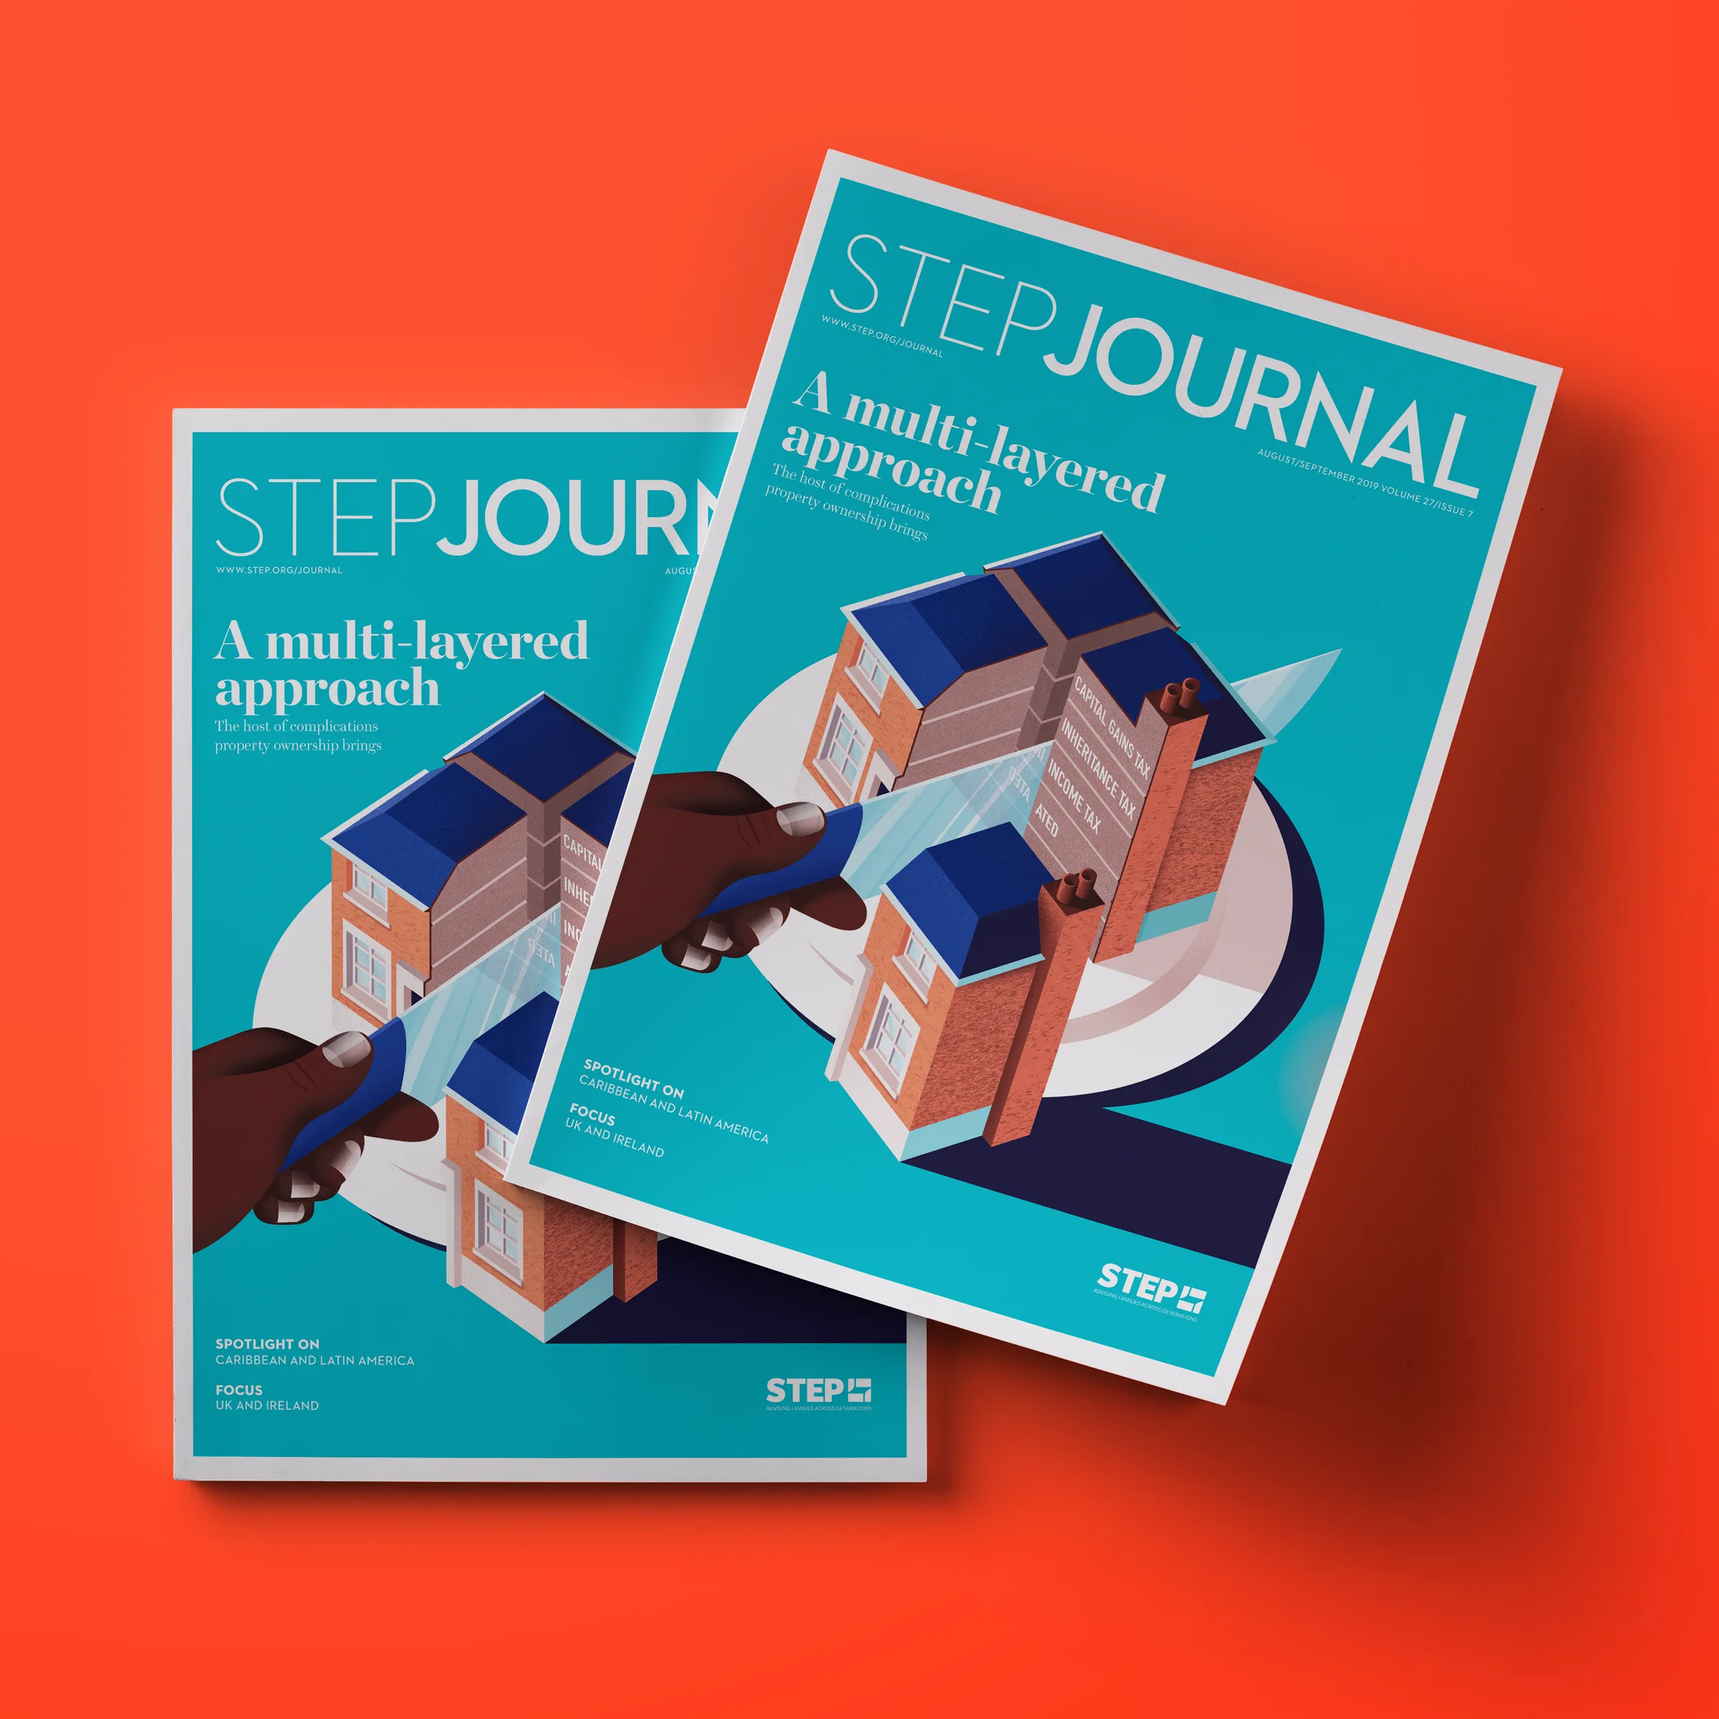
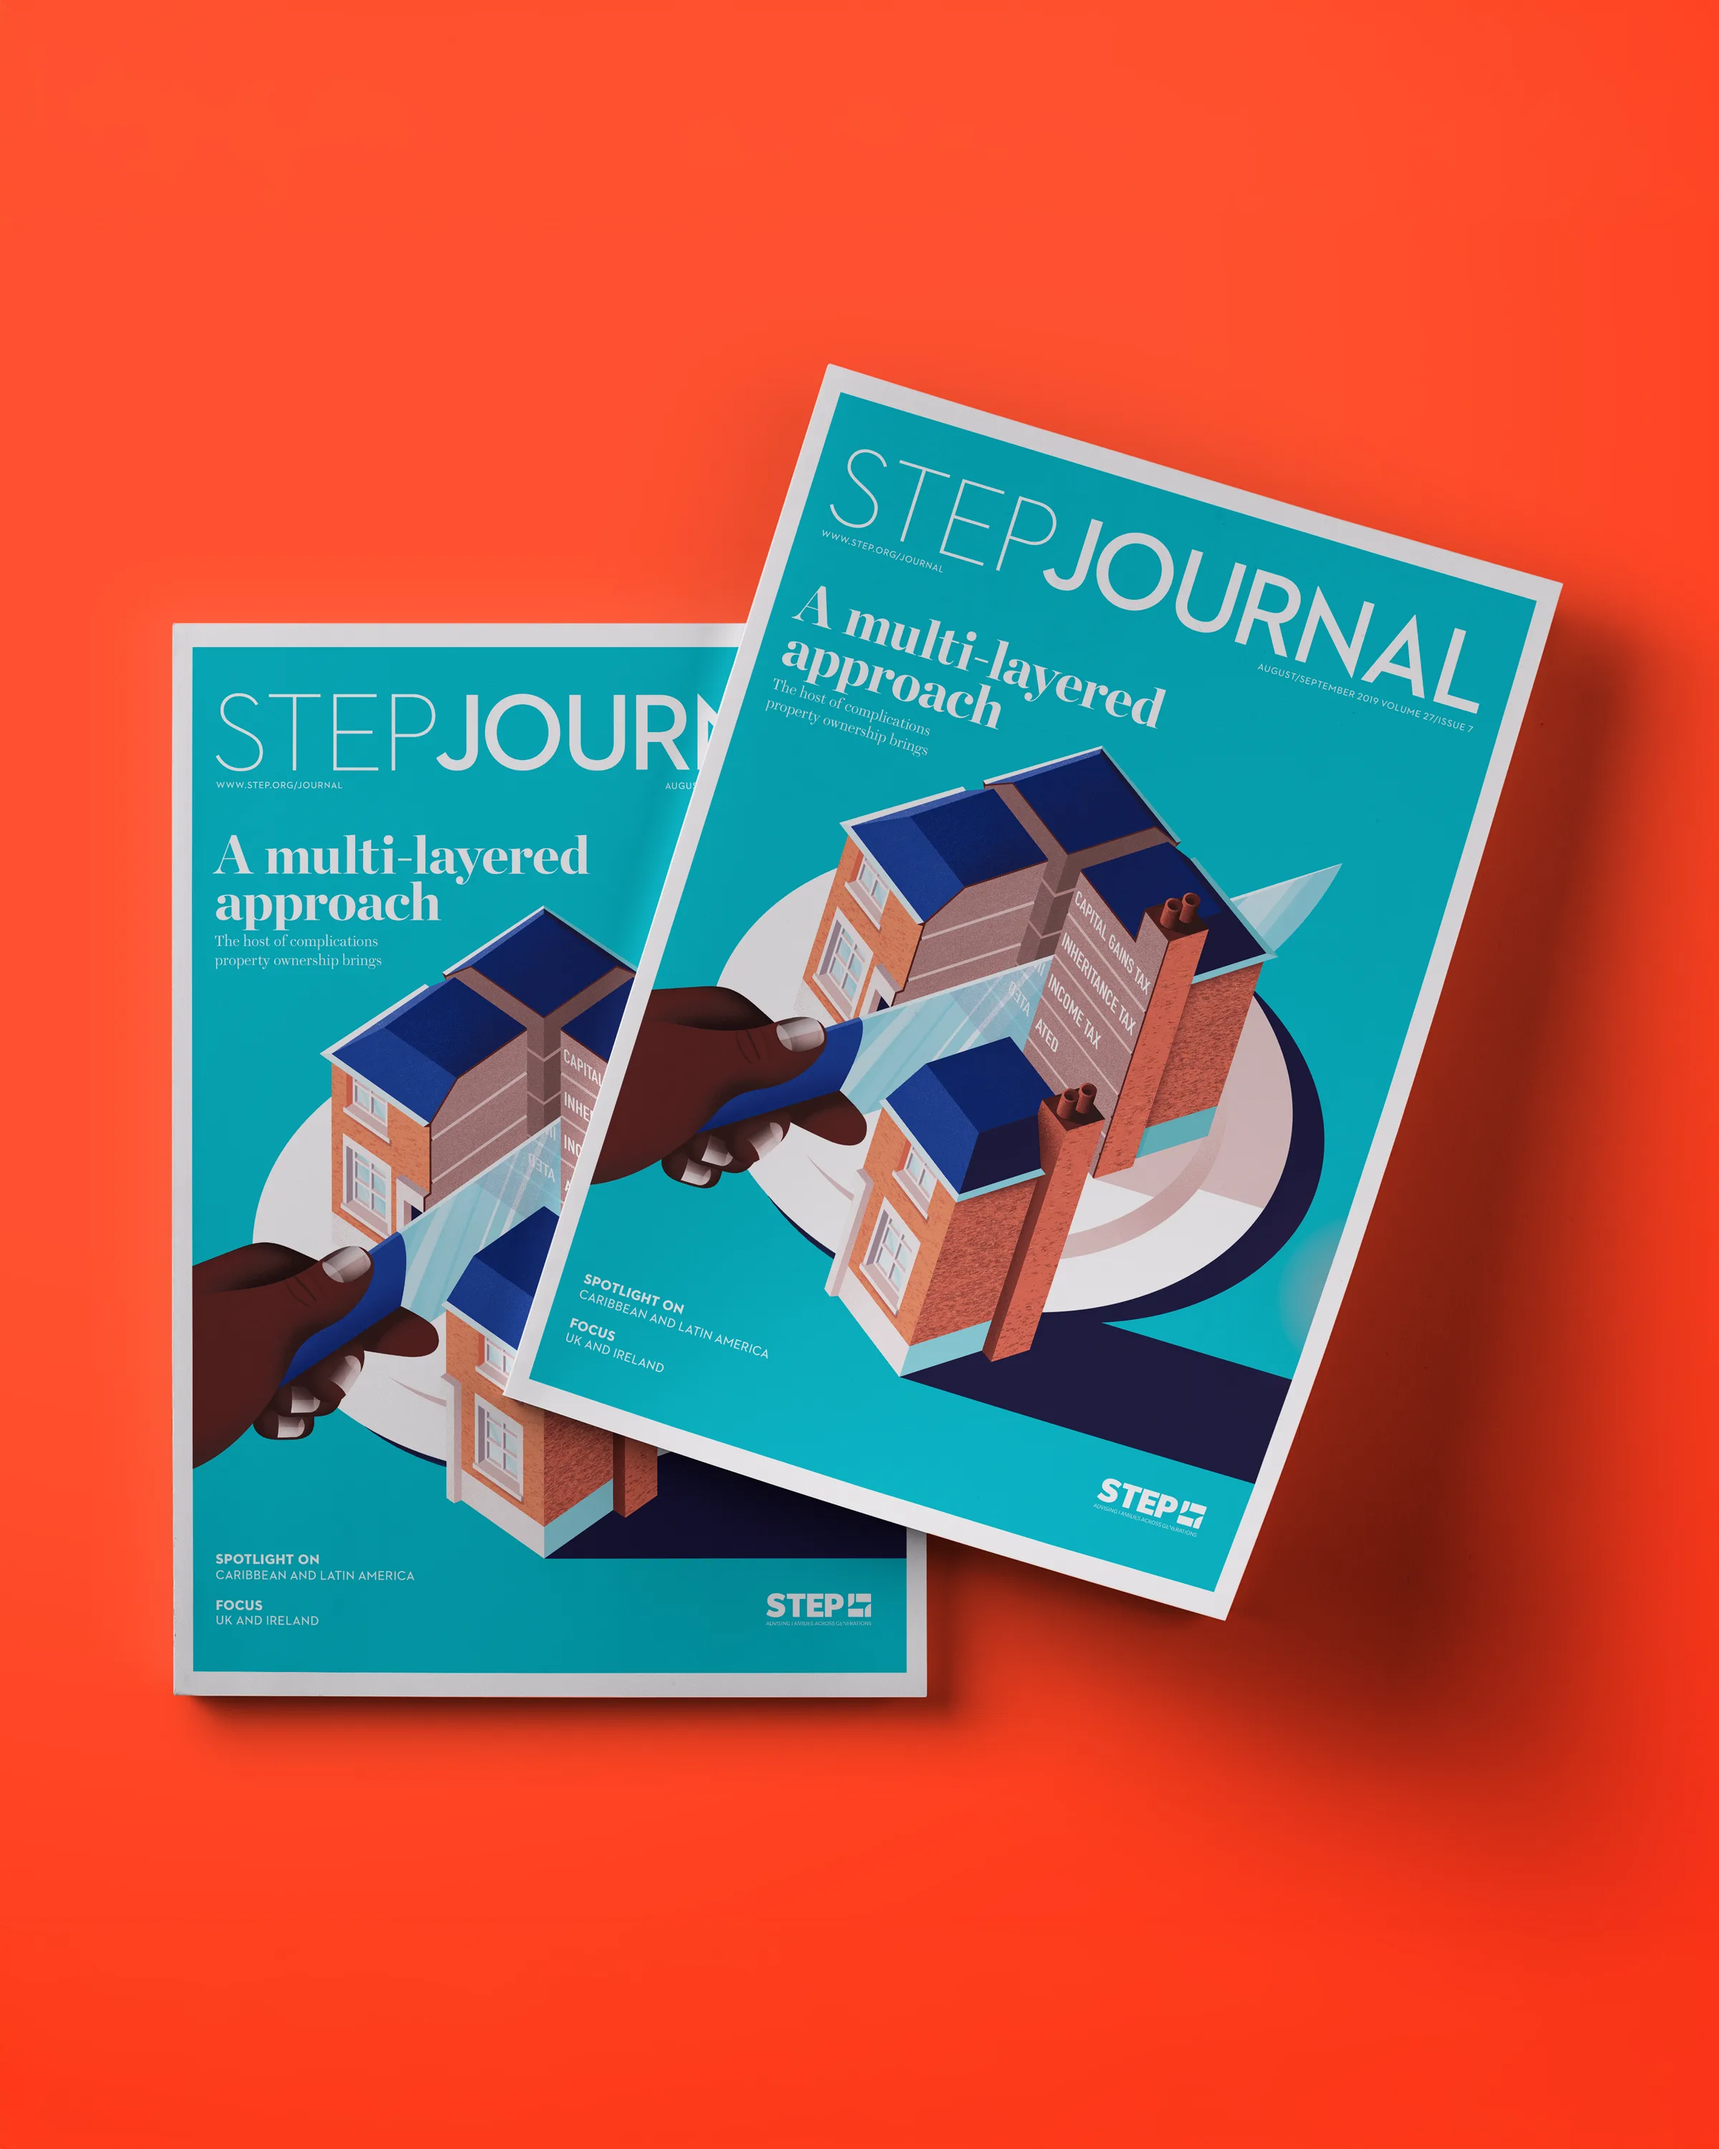
content(work): swap in the 4:5 Step Journal cover mockup
Josh recropped the mockup to 4/5, matching the hero's own ratio, so
the two-up sits at matching heights with no CSS crop needed to line
them up.

diff --git a/lib/projects.ts b/lib/projects.ts
@@ -317,7 +317,7 @@ export const projects: Project[] = [
       src: "/work/step-journal/01-step-journal.webp",
     },
     heroPair: {
-      ratio: "1/1",
+      ratio: "4/5",
       alt: "The cover on the printed issue.",
       src: "/work/step-journal/02-step-journal-cover-mockup.webp",
     },
